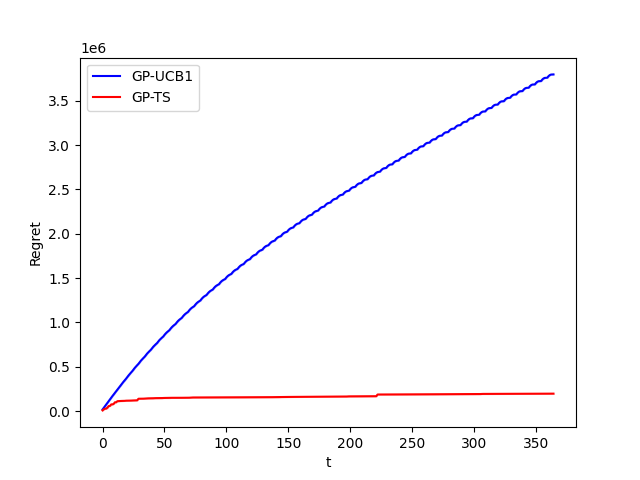
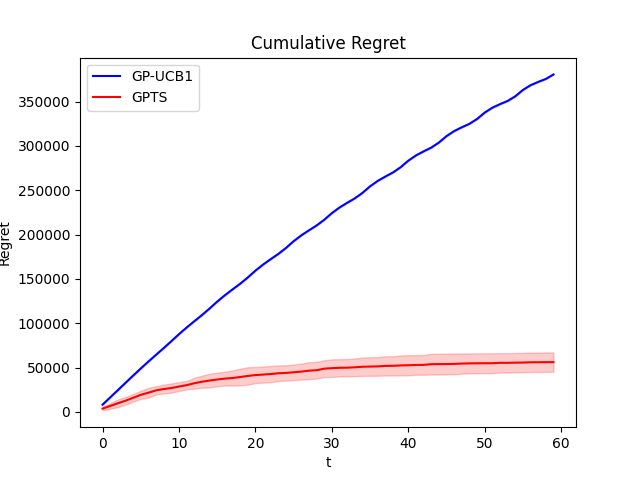
Step 3 adapted to step 2

diff --git a/Step_3.py b/Step_3.py
@@ -12,27 +12,28 @@ n_bids = 100
 min_bid = 0.0
 max_bid = 1.0
 bids = np.linspace(min_bid, max_bid, n_bids)
+sigma = 10  # Noise of the environment TODO consider using %
 
 Collector = UserC1()
 prices = Collector.prices
 sigma = 10
 
-production_cost = 75
+production_cost = 100
 
 # Generate an action space with both bids and prices
 action_space = np.array([[bid,price] for bid in bids for price in prices]) # all combinations of bid and price
 n_arms = action_space.shape[0]
 
-T = 365
+T = 60 #365
 
-n_experiments = 4
+n_experiments = 20 #4
 gpts_rewards_per_experiment = []
 gpucb1_rewards_per_experiment = []
 #bids_made_per_experiment = [] #the bids made by the learner
 
 # %% Run the experiments
 for e in range(0, n_experiments):
-    env = PricingBiddingEnvironment(actions=action_space, bids=bids, sigma = sigma, user=UserC1(), production_cost=production_cost)
+    env = PricingBiddingEnvironment(actions=action_space, sigma = sigma, bids=bids, user=UserC1(), production_cost=production_cost)
     gpts_learner = GPTS_Learner(n_arms = n_arms, bids = action_space)
     gpucb1_learner = GPUCB1_Learner(n_arms = n_arms, bids = action_space, M = np.max(action_space[:,0]*action_space[:,1]))
     for t in range(0, T):
@@ -50,16 +51,29 @@ for e in range(0, n_experiments):
     gpucb1_rewards_per_experiment.append(gpucb1_learner.collected_rewards)
 
 # %% Compute the regret
-opt = np.max(env.means)
-avg_regret_gpts = np.mean(opt - gpts_rewards_per_experiment, axis=0)
-cum_regret_gpts = np.cumsum(avg_regret_gpts)
-std_regret_gpts = np.std(opt - gpts_rewards_per_experiment, axis=0)
-avg_regret_gpucb1 = np.mean(opt - gpucb1_rewards_per_experiment, axis=0)
-cum_regret_gpucb1 = np.cumsum(avg_regret_gpucb1)
-std_regret_gpucb1 = np.std(opt - gpucb1_rewards_per_experiment, axis=0)
+#opt = np.max(env.means)
+#avg_regret_gpts = np.mean(opt - gpts_rewards_per_experiment, axis=0)
+#cum_regret_gpts = np.cumsum(avg_regret_gpts)
+#std_regret_gpts = np.std(opt - gpts_rewards_per_experiment, axis=0)
+#avg_regret_gpucb1 = np.mean(opt - gpucb1_rewards_per_experiment, axis=0)
+#cum_regret_gpucb1 = np.cumsum(avg_regret_gpucb1)
+#std_regret_gpucb1 = np.std(opt - gpucb1_rewards_per_experiment, axis=0)
 
+opt = np.max(env.means)
+regret_gpucb1 = opt - gpucb1_rewards_per_experiment  # row = exp, col = t
+avg_regret_gpucb1 = np.mean(regret_gpucb1, axis=0)
+std_regret_gpucb1 = np.std(regret_gpucb1, axis=0)
+cum_avg_regret_gpucb1 = np.mean(np.cumsum(regret_gpucb1, axis=1), axis=0)
+cum_std_regret_gpucb1 = np.std(np.cumsum(regret_gpucb1, axis=1), axis=0)
+
+regret_gpts = opt - gpts_rewards_per_experiment  # row = exp, col = t
+avg_regret_gpts = np.mean(regret_gpts, axis=0)
+std_regret_gpts = np.std(regret_gpts, axis=0)
+cum_avg_regret_gpts = np.mean(np.cumsum(regret_gpts, axis=1), axis=0)
+cum_std_regret_gpts = np.std(np.cumsum(regret_gpts, axis=1), axis=0)
 
 # %%
+# help
 print(opt)
 
 print(np.shape(gpucb1_rewards_per_experiment))
@@ -69,15 +83,17 @@ aux = opt - gpucb1_rewards_per_experiment
 print(np.shape(aux))
 
 print(aux)
+
 # %% Plot the cumulative regret
 fig = plt.figure(0)
 plt.xlabel("t")
 plt.ylabel("Regret")
-plt.plot(cum_regret_gpucb1, 'b')
-plt.plot(cum_regret_gpts, 'r')
-plt.fill_between(range(len(cum_regret_gpucb1)), cum_regret_gpucb1 - np.cumsum(std_regret_gpucb1), cum_regret_gpucb1 + np.cumsum(std_regret_gpucb1), alpha=0.2, color='b')
-plt.fill_between(range(len(cum_regret_gpts)), cum_regret_gpts - np.cumsum(std_regret_gpts), cum_regret_gpts + np.cumsum(std_regret_gpts), alpha=0.2, color='r')
-plt.legend(["GP-UCB1", "GP-TS"])
+plt.plot(cum_avg_regret_gpucb1, 'b')
+plt.plot(cum_avg_regret_gpts, 'r')
+plt.fill_between(range(len(cum_avg_regret_gpucb1)), cum_avg_regret_gpucb1 - cum_std_regret_gpucb1, cum_avg_regret_gpucb1 + cum_std_regret_gpucb1, alpha=0.2, color='b')
+plt.fill_between(range(len(cum_avg_regret_gpts)), cum_avg_regret_gpts - cum_std_regret_gpts, cum_avg_regret_gpts + cum_std_regret_gpts, alpha=0.2, color='r')
+plt.legend(["GP-UCB1", "GPTS"])
+plt.title("Cumulative Regret")
 fig = plt.gcf()
 plt.show()
 
@@ -92,62 +108,52 @@ plt.plot(avg_regret_gpts, 'r')
 plt.fill_between(range(len(avg_regret_gpucb1)), avg_regret_gpucb1 - std_regret_gpucb1, avg_regret_gpucb1 + std_regret_gpucb1, alpha=0.2, color='b')
 plt.fill_between(range(len(avg_regret_gpts)), avg_regret_gpts - std_regret_gpts, avg_regret_gpts + std_regret_gpts, alpha=0.2, color='r')
 plt.hlines(0, 0, T, colors='black', linestyles='dashed')
-plt.legend(["GP-UCB1", "GP-TS"])
+plt.legend(["GP-UCB1", "GPTS"])
+plt.title("Instantaneous Regret")
 fig = plt.gcf()
 plt.show()
 
 fig.savefig("results/S3_instantaneous_regret.png")
 
+# %% Compute the reward
+avg_reward_gpucb1 = np.mean(gpucb1_rewards_per_experiment, axis=0)
+std_reward_gpucb1 = np.std(gpucb1_rewards_per_experiment, axis=0)
+cum_avg_reward_gpucb1 = np.mean(np.cumsum(gpucb1_rewards_per_experiment, axis=1), axis=0)
+cum_std_reward_gpucb1 = np.std(np.cumsum(gpucb1_rewards_per_experiment, axis=1), axis=0)
+
+avg_reward_gpts = np.mean(gpts_rewards_per_experiment, axis=0)
+std_reward_gpts = np.std(gpts_rewards_per_experiment, axis=0)
+cum_avg_reward_gpts = np.mean(np.cumsum(gpts_rewards_per_experiment, axis=1), axis=0)
+cum_std_rreward_gpts = np.std(np.cumsum(gpts_rewards_per_experiment, axis=1), axis=0)
+
 # %% Plot the cumulative reward
-plt.figure(1)
+plt.figure(2)
 plt.xlabel("t")
 plt.ylabel("Reward")
-plt.plot(np.cumsum(np.mean(gpucb1_rewards_per_experiment, axis=0)), 'b')
-plt.plot(np.cumsum(np.mean(gpts_rewards_per_experiment, axis=0)), 'r')
-plt.legend(["GP-UCB1", "GP-TS"])
+plt.plot(cum_avg_reward_gpucb1, 'b')
+plt.plot(cum_avg_reward_gpts, 'r')
+plt.fill_between(range(len(cum_avg_reward_gpucb1)), cum_avg_reward_gpucb1 - cum_std_reward_gpucb1, cum_avg_reward_gpucb1 + cum_std_reward_gpucb1, alpha=0.2, color='r')
+plt.fill_between(range(len(cum_avg_reward_gpts)), cum_avg_reward_gpts - cum_std_rreward_gpts, cum_avg_reward_gpts + cum_std_rreward_gpts, alpha=0.2, color='b')
+plt.legend(["GP-UCB1", "GPTS"])
 plt.title("Cumulative Reward")
+fig = plt.gcf()
 plt.show()
+
+fig.savefig("results/S3_cumulative_reward.png")
 
 # %% Plot the instantaneous reward
 plt.figure(3)
 plt.xlabel("t")
 plt.ylabel("Reward")
-plt.plot(np.mean(gpucb1_rewards_per_experiment, axis=0), 'b')
-plt.plot(np.mean(gpts_rewards_per_experiment, axis=0), 'r')
+plt.plot(avg_reward_gpucb1, 'b')
+plt.plot(avg_reward_gpts, 'r')
 plt.hlines(y=opt, xmin=0, xmax=T, colors='k', linestyles='dashed')
-plt.legend(["GP-UCB1", "GP-TS", "Clairvoyant"])
+plt.fill_between(range(len(avg_reward_gpucb1)), avg_reward_gpucb1 - std_reward_gpucb1, avg_reward_gpucb1 + std_reward_gpucb1, alpha=0.2, color='b')
+plt.fill_between(range(len(avg_reward_gpts)), avg_reward_gpts - std_reward_gpts, avg_reward_gpts + std_reward_gpts, alpha=0.2, color='r')
+plt.legend(["GP-UCB1", "GPTS",  "Clairvoyant"])
 plt.title("Instantaneous Reward")
+fig = plt.gcf()
 plt.show()
 
-# %% Plot the instantaneous regret with standard deviation
-plt.figure(4)
-plt.xlabel("t")
-plt.ylabel("Regret")
-plt.plot(avg_regret_gpucb1, 'b')
-plt.plot(avg_regret_gpts, 'r')
-plt.hlines(y=0, xmin=0, xmax=T, colors='k', linestyles='dashed')
-plt.fill_between(range(len(avg_regret_gpucb1)), avg_regret_gpucb1 - std_regret_gpucb1, avg_regret_gpucb1 + std_regret_gpucb1, color='b', alpha=0.2)
-plt.fill_between(range(len(avg_regret_gpts)), avg_regret_gpts - std_regret_gpts, avg_regret_gpts + std_regret_gpts, color='r', alpha=0.2)
-plt.legend(["GP-UCB1", "GP-TS", "Clairvoyant"])
-plt.title("Instantaneous Regret with Standard Deviation")
-plt.show()
-
-# %% Plot of cumulative regret with variance
-avg_cum_regret_ucb1 = np.cumsum(avg_regret_gpucb1)
-avg_cum_regret_ts = np.cumsum(avg_regret_gpts)
-
-std_cum_regret_ucb1 = np.cumsum(std_regret_gpucb1)
-std_cum_regret_ts = np.cumsum(std_regret_gpts)
-
-plt.figure(1)
-plt.xlabel("t")
-plt.ylabel("Regret")
-plt.plot(avg_cum_regret_ucb1, 'b')
-plt.plot(avg_cum_regret_ts, 'r')
-plt.fill_between(range(len(avg_cum_regret_ucb1)), avg_cum_regret_ucb1 - std_cum_regret_ucb1, avg_cum_regret_ucb1 + std_cum_regret_ucb1, alpha=0.2, color='b')
-plt.fill_between(range(len(avg_cum_regret_ts)), avg_cum_regret_ts - std_cum_regret_ts, avg_cum_regret_ts + std_cum_regret_ts, alpha=0.2, color='r')
-plt.legend(["GP-UCB1", "GP-TS"])
-plt.title("Cumulative Regret with standard deviation")
-plt.show()
-
+fig.savefig("results/S3_instantaneous_reward.png")
 # %%

diff --git a/Environments/Environment_S3.py b/Environments/Environment_S3.py
@@ -3,7 +3,7 @@ import numpy as np
 class PricingBiddingEnvironment():
     '''Pricing and Bidding Environment Class'''
 
-    def __init__(self, actions, bids, sigma, user, production_cost):  
+    def __init__(self, actions, bids, sigma, production_cost, user):  
         """
         Initialize the Bidding Environment Class with the actions, means and sigmas.
         """
@@ -13,7 +13,7 @@ class PricingBiddingEnvironment():
         step=int(actions.shape[0]/len(bids))
         self.means=[]
         for i in range(1,len(bids)+1):
-            self.means[step*(i-1):step*i] = (user.prices - production_cost) * user.demand_curve(user.prices) * np.repeat(user.click_vs_bid(bids[i-1]),step) - np.repeat(user.cumulative_cost_vs_bid(bids[i-1])*user.click_vs_bid(bids[i-1]),step)
+            self.means[step*(i-1):step*i] = (user.prices - production_cost) * user.demand_curve(user.prices) * np.repeat(user.click_vs_bid(bids[i-1]),step) - np.repeat(user.cost_vs_bid(bids[i-1])*user.click_vs_bid(bids[i-1]),step)
         self.sigmas = np.ones(len(actions)) * sigma
         production_cost = production_cost
 

diff --git a/Learners/GPUCB1_Learner_s3.py b/Learners/GPUCB1_Learner_s3.py
@@ -19,7 +19,9 @@ class GPUCB1_Learner(Learner):
         alpha = .5
         theta = 1.0
         l = 1.0
-        kernel = C(theta, constant_value_bounds="fixed") * RBF(l, length_scale_bounds="fixed")
+
+        kernel = C(theta, (1e-3, 1e3)) * RBF(l, (1e-3, 1e3))
+        #kernel = C(theta, constant_value_bounds="fixed") * RBF(l, length_scale_bounds="fixed")
         n_restarts = 9
 
         self.gp = GaussianProcessRegressor(

diff --git a/step_1.py b/step_1.py
@@ -18,7 +18,7 @@ selected_bid = 0.5
 #cumulative_cost=Collector.cumulative_cost_vs_bid(selected_bid)
 n_clicks = Collector.click_vs_bid(selected_bid)
 cumulative_cost=Collector.cost_vs_bid(selected_bid)
-production_cost = 75
+production_cost = 100
 
 avg_n_users = 1     # for future optimization
 #opt = max(Collector.prices * Collector.probabilities) * avg_n_users

diff --git a/step_2.py b/step_2.py
@@ -31,7 +31,7 @@ Collector = UserC1()
 selected_price = 300
 #conversion_rate = np.max(Collector.demand_curve())
 conversion_rate = Collector.demand_curve(selected_price)
-production_cost = 75
+production_cost = 100
 margin = selected_price - production_cost
 
 # %% Run the experiments
